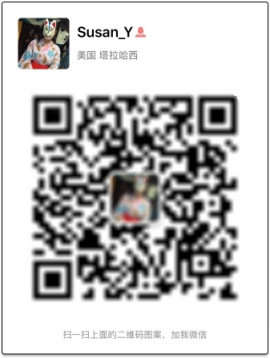
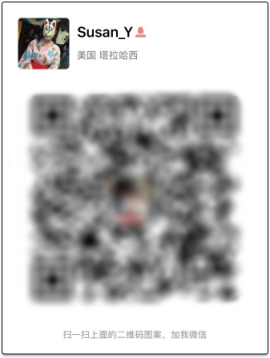
1. Add Disqus. 2. Add share buttons. 3. Further blur wechat QR code.

diff --git a/_layouts/post.html b/_layouts/post.html
@@ -51,6 +51,13 @@ layout: base
       {% if page.social-share %}
         {% include social-share.html %}
       {% endif %}
+        <div class="bdsharebuttonbox">
+          <br/>
+          <a href="#" class="bds_weixin" data-cmd="weixin" title="分享到微信"></a>
+          <a href="#" class="bds_douban" data-cmd="douban" title="分享到豆瓣"></a>
+          <a href="#" class="bds_tsina" data-cmd="tsina" title="分享到微博"></a>
+        </div>
+      <script>window._bd_share_config={"common":{"bdSnsKey":{},"bdText":"","bdMini":"1","bdMiniList":["tsina","weixin","douban"],"bdPic":"","bdStyle":"1","bdSize":"24"},"share":{}};with(document)0[(getElementsByTagName('head')[0]||body).appendChild(createElement('script')).src='http://bdimg.share.baidu.com/static/api/js/share.js?v=89860593.js?cdnversion='+~(-new Date()/36e5)];</script>
 
       <ul class="pager blog-pager">
         {% if page.previous.url %}

diff --git a/_includes/nav.html b/_includes/nav.html
@@ -48,7 +48,7 @@
 	{% elsif site.avatar and (layout.show-avatar or page.show-avatar) %}
 	<div class="avatar-container">
 	  <div class="avatar-img-border">
-	    <a href="{{ site.url }} ">
+	    <a href="{{ site.url }}">
 	      <img class="avatar-img" src="{{ site.avatar | prepend: site.baseurl | replace: '//', '/' }}" />
 		</a>
 	  </div>

diff --git a/index.html b/index.html
@@ -1,6 +1,6 @@
 ---
 layout: page
-title: Susan's Blog
+title: Susan 说
 use-site-title: true
 ---
 
